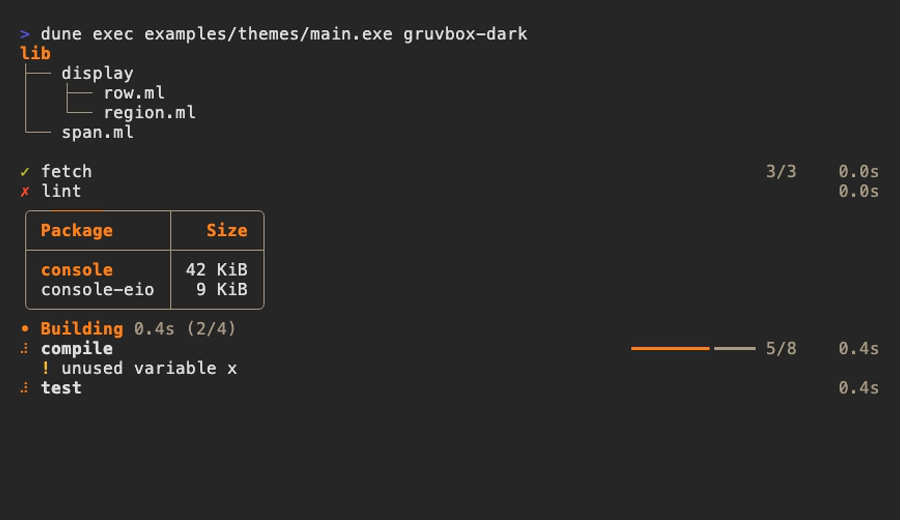
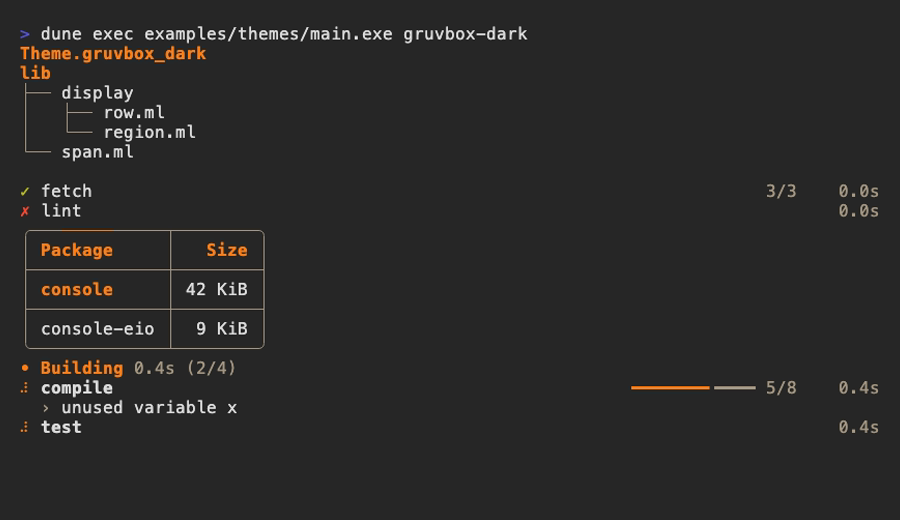
console: record the gallery and each motion again
The gallery showed matrix's rain breaking the frame, Theme.dos in ASCII
lines and the display's log lines kept after a success, which a task no
longer does. Every theme's picture is recorded again; each shows a
title in Span.gradient, graded through the theme's palette, and the
table's rows separated by rules. The display's recordings, display.gif
and matrix.gif, are recorded again under the same title, and two more
show the other motions: rainbow.gif, the palette sweeping round the
frame over rows whose bars are rainbows, and tokyo-night.gif, a scheme
theme's shimmer on its own background. The README links them from its
"Motion" section and shows Span.gradient, Table.v ~rules and
Console.hcat.

diff --git a/README.md b/README.md
@@ -318,6 +318,57 @@ rootfs.tar  ━━━━━━━━━╺
 - : unit = ()
 ```
 
+Without a style, a bar takes the palette of its theme: in `Theme.rainbow`,
+whose palette has six colours, each filled cell is in the colour of its
+place along the bar, so the fill uncovers a rainbow as it grows.
+`Span.gradient` grades text through the same palette, or through the
+colours it is given, one grapheme cluster at a time; without colour it is
+its text:
+
+```ocaml
+# Fmt.pr "%a@." Span.pp (Span.gradient ~colors:[ Color.red; Color.blue ] "console");;
+console
+- : unit = ()
+```
+
+`Table.v ~rules:true` separates the rows of a table, which helps when its
+cells wrap over several lines:
+
+```ocaml
+# print_endline
+    (Table.to_string
+       (Table.v ~rules:true
+          [ Table.column "Step"; Table.column "Status" ]
+          [
+            [ Span.text "fetch"; Span.text "done" ];
+            [ Span.text "compile"; Span.text "2 warnings\n1 error" ];
+          ]));;
+╭─────────┬────────────╮
+│ Step    │ Status     │
+├─────────┼────────────┤
+│ fetch   │ done       │
+├─────────┼────────────┤
+│ compile │ 2 warnings │
+│         │ 1 error    │
+╰─────────┴────────────╯
+- : unit = ()
+```
+
+`Console.hcat` prints blocks side by side, each at its share of the margin
+and in its own colours; a scene can be one:
+
+```ocaml
+# let tree = Tree.v (Span.text "src") [ Tree.v (Span.text "lib") [] ]
+  and panel = Panel.v (Span.text "2 files") in
+  Fmt.pr "%a@."
+    (Console.hcat [ Fmt.const Tree.pp tree; Fmt.const Panel.pp panel ])
+    ();;
+src      ╭─────────╮
+└── lib  │ 2 files │
+         ╰─────────╯
+- : unit = ()
+```
+
 Every widget is drawn in the theme of the formatter it is printed on, which
 `Theme.set` chooses, as `Fmt.set_style_renderer` chooses its colours: the
 main colour, the colours of success, warning and failure, the marks, the
@@ -442,12 +493,21 @@ does.
 
 ### Motion
 
-[The build in `Theme.matrix`](examples/display/matrix.gif), recorded by
-[its tape](examples/display/tape.ml), shows a frame moving. `Theme.matrix`
-rains (`` `Rain ``), `Theme.rainbow` sweeps its palette round
-(`` `Sweep ``), every theme named after a colour scheme shimmers in its main
-colour (`` `Shimmer ``), and `Theme.default`, `Theme.ascii` and `Theme.dos`
-stand still.
+The build of [the example](examples/display/main.ml), recorded by
+[its tape](examples/display/tape.ml), shows each motion. `Theme.matrix`
+rains along the frame (`` `Rain ``), as
+[the build above](#a-table-while-work-runs) shows.
+`Theme.rainbow` sweeps its palette, graded round the frame (`` `Sweep ``),
+under a title in `Span.gradient` and over rows whose bars are rainbows:
+
+![The build in Theme.rainbow, a rainbow sweeping round the frame of its table](examples/display/rainbow.gif)
+
+Every theme named after a colour scheme, such as `Theme.tokyo_night`,
+shimmers in its main colour (`` `Shimmer ``):
+
+![The build in Theme.tokyo_night, a highlight going round the frame of its table](examples/display/tokyo-night.gif)
+
+`Theme.default`, `Theme.ascii` and `Theme.dos` stand still.
 
 ### `Theme.default`
 
